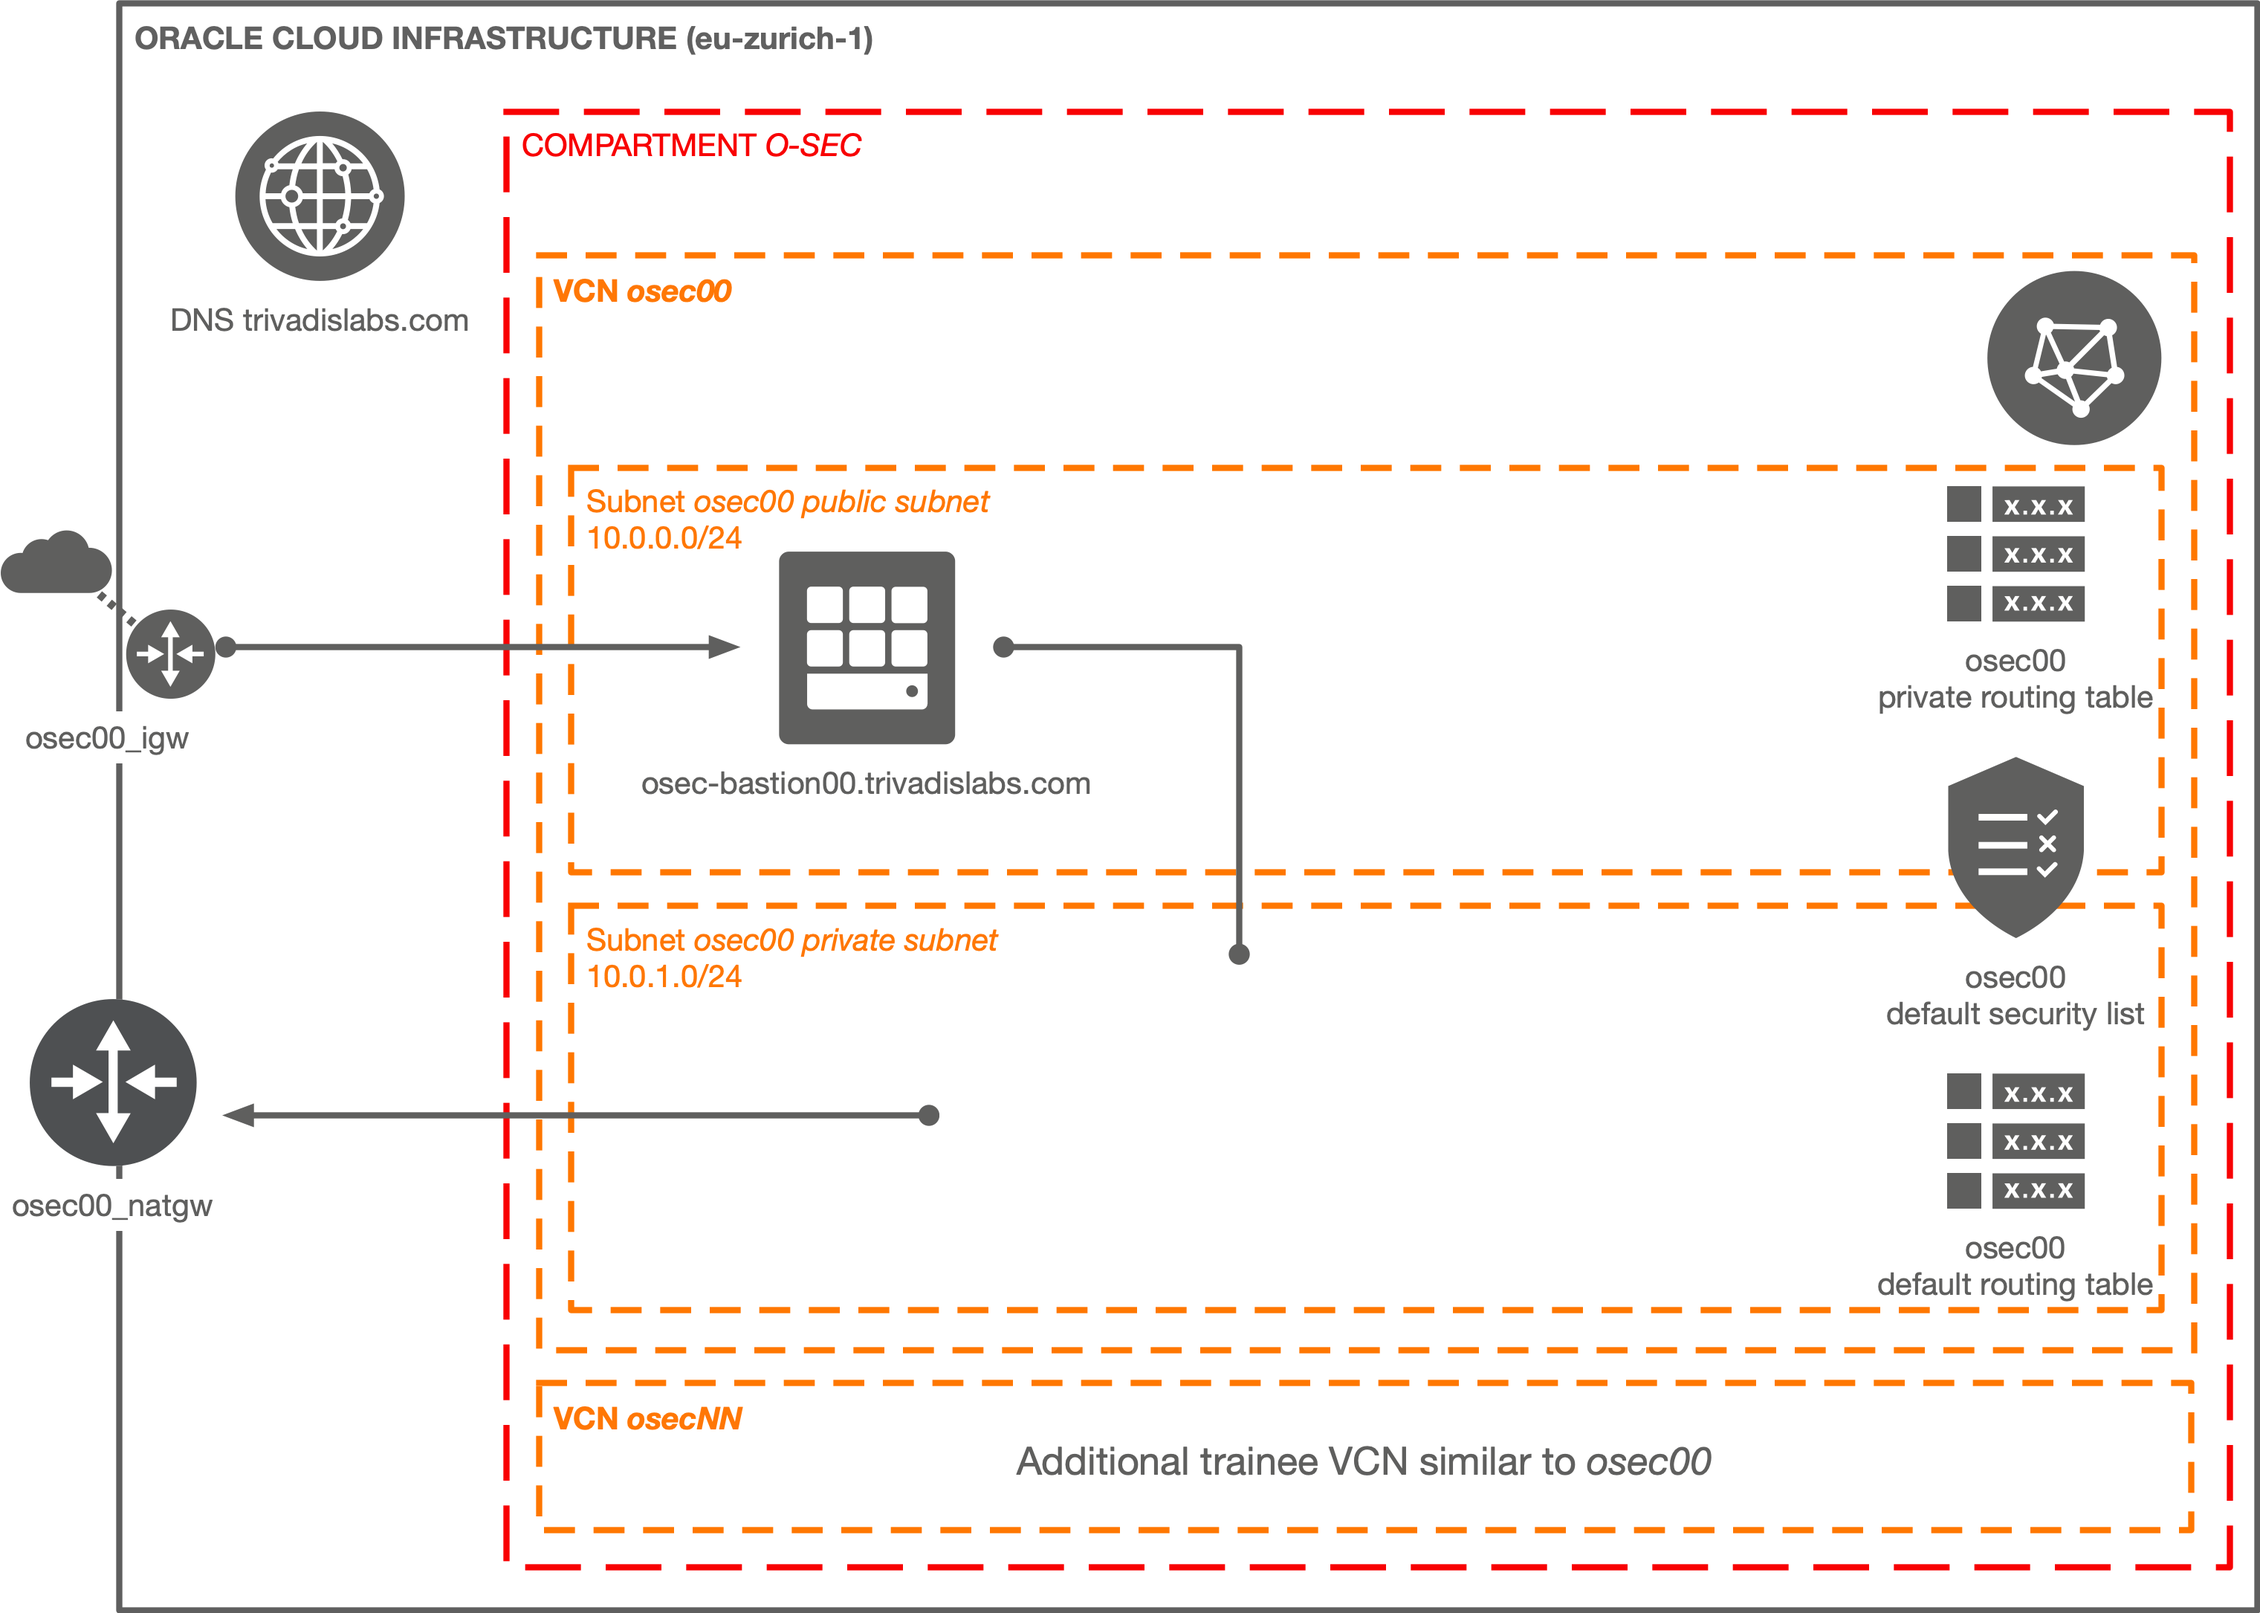
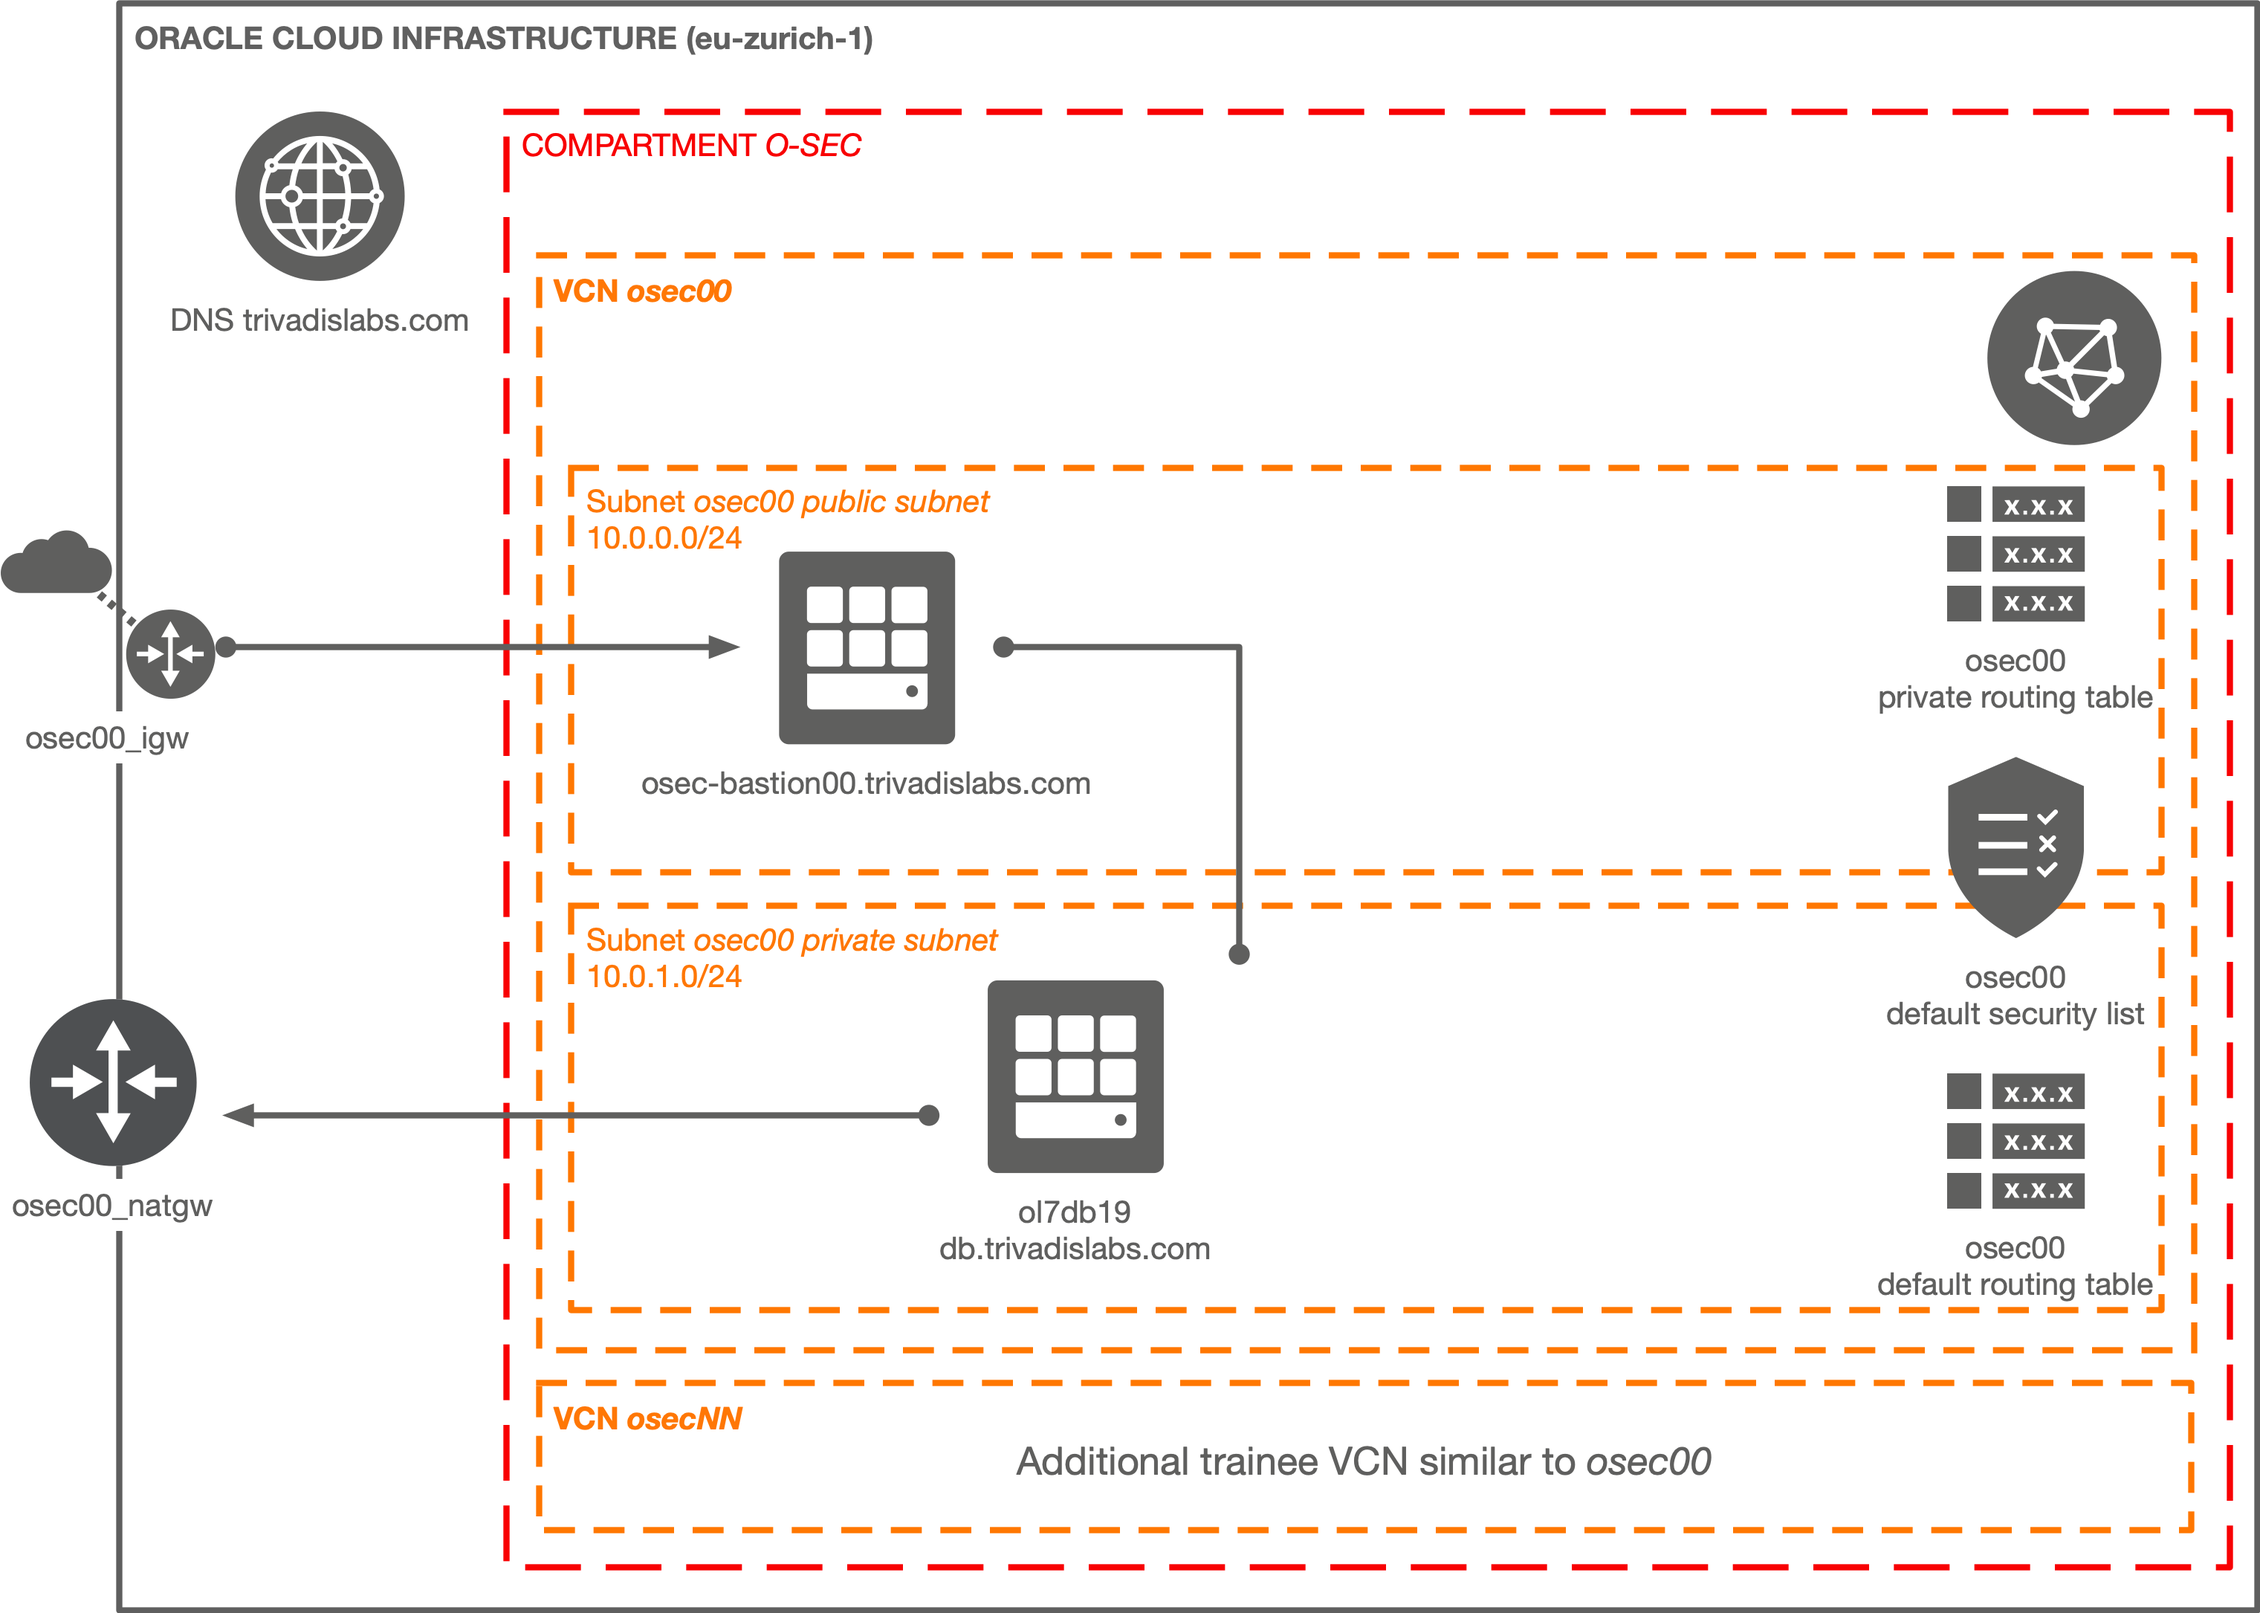
add compute module for db host

Changed region(s): [[0.4374, 0.5866, 0.5311, 0.8028]]

diff --git a/doc/variables.md b/doc/variables.md
@@ -11,12 +11,15 @@ Variables for the configuration of the terraform module, defined in [variables](
 
 ## General OCI
 
-| Parameter        | Description                                                                           | Values | Default |
-|------------------|---------------------------------------------------------------------------------------|--------|---------|
-| `compartment_id` | OCID of the compartment where to create all resources.                                | OCID   |         |
-| `label_prefix`   | A string that will be prepended to all resources.                                     |        | none    |
-| `resource_name`  | A string to name all resource. If undefined it will be derived from compartment name. |        | n/a     |
-| `tags`           | A simple key-value pairs to tag the resources created.                                |        |         |
+| Parameter             | Description                                                                                      | Values | Default |
+|-----------------------|--------------------------------------------------------------------------------------------------|--------|---------|
+| `compartment_id`      | OCID of the compartment where to create all resources.                                           | OCID   |         |
+| `label_prefix`        | A string that will be prepended to all resources.                                                |        | none    |
+| `resource_name`       | A string to name all resource. If undefined it will be derived from compartment name.            |        | n/a     |
+| `tags`                | A simple key-value pairs to tag the resources created.                                           |        |         |
+| `ssh_public_key_path` | Path to the ssh public key used to access the host. set this or the `ssh_public_key`             |        | n/a     |
+| `ssh_public_key`      | The content of the ssh public key used to access the host. set this or the `ssh_public_key_path` |        | n/a     |
+
 
 ## VCN Variables
 
@@ -43,9 +46,22 @@ Variables for the configuration of the terraform module, defined in [variables](
 | `bastion_os_version`       | Define the default OS version for Oracle Linux. This is used to identify the default `bastion_image_id` |                   | 7.8              |
 | `bastion_shape`            | The shape of bastion instance.                                                                          |                   | VM.Standard.E2.1 |
 | `bastion_state`            | Whether bastion host should be either RUNNING or STOPPED state.                                         | RUNNING / STOPPED | RUNNING          |
-| `ssh_public_key_path`      | Path to the ssh public key used to access the bastion. set this or the `ssh_public_key`                 |                   | n/a              |
-| `ssh_public_key`           | The content of the ssh public key used to access the bastion. set this or the `ssh_public_key_path`     |                   | n/a              |
 
+## DB Host
+
+| Parameter                  | Description                                                                                             | Values            | Default          |
+|----------------------------|---------------------------------------------------------------------------------------------------------|-------------------|------------------|
+| `db_host_bootstrap`        | Bootstrap script to provision the host.                                                                 |                   | n/a              |
+| `db_host_enabled`          | Whether to create the host or not.                                                                      | true/false        | false            |
+| `db_host_image_id`         | Provide a custom image id for the host or leave as OEL (Oracle Enterprise Linux).                       | OCID              | OEL              |
+| `db_host_name`             | A Name portion of host.                                                                                 |                   | db               |
+| `db_host_public_ip`        | whether to assigne a public IP or not.                                                                  | true/false        | false            |
+| `db_host_private_ip`       | Private IP for the host.                                                                                |                   | 10.0.1.6         |
+| `db_host_os_version`       | Define the default OS version for Oracle Linux. This is used to identify the default `db_host_image_id` |                   | 7.8              |
+| `db_host_shape`            | The shape of compute instance.                                                                          |                   | VM.Standard.E2.2 |
+| `db_host_boot_volume_size` | Size of the boot volume.                                                                                |                   | 150              |
+| `db_host_state`            | Whether host should be either RUNNING or STOPPED state.                                                 | RUNNING / STOPPED | RUNNING          |
+| `db_host_subnet`           | List of subnets for the hosts                                                                           |                   | n/a              |
 
 ## Trivadis LAB
 

diff --git a/README.md b/README.md
@@ -11,6 +11,7 @@ It creates the following resources:
 * An optional NAT gateway
 * An optional service gateway
 * An optional bastion host using [Trivadis/terraform-oci-tvdlab-bastion](https://github.com/Trivadis/terraform-oci-tvdlab-bastion)
+* An optional db host using [Trivadis/terraform-oci-tvdlab-compute](https://github.com/Trivadis/terraform-oci-tvdlab-compute)
 * Optional n-number of base envrionments. This is used to build several identical environments for a training and laboratory environment.
 
 The module can be parametrized by the number of participants. This will then create n times the environment. The following figure shows a VCN with Basion host for the compartment O-SEC. i.e. `resource_name` has been derivated from compartment name.
